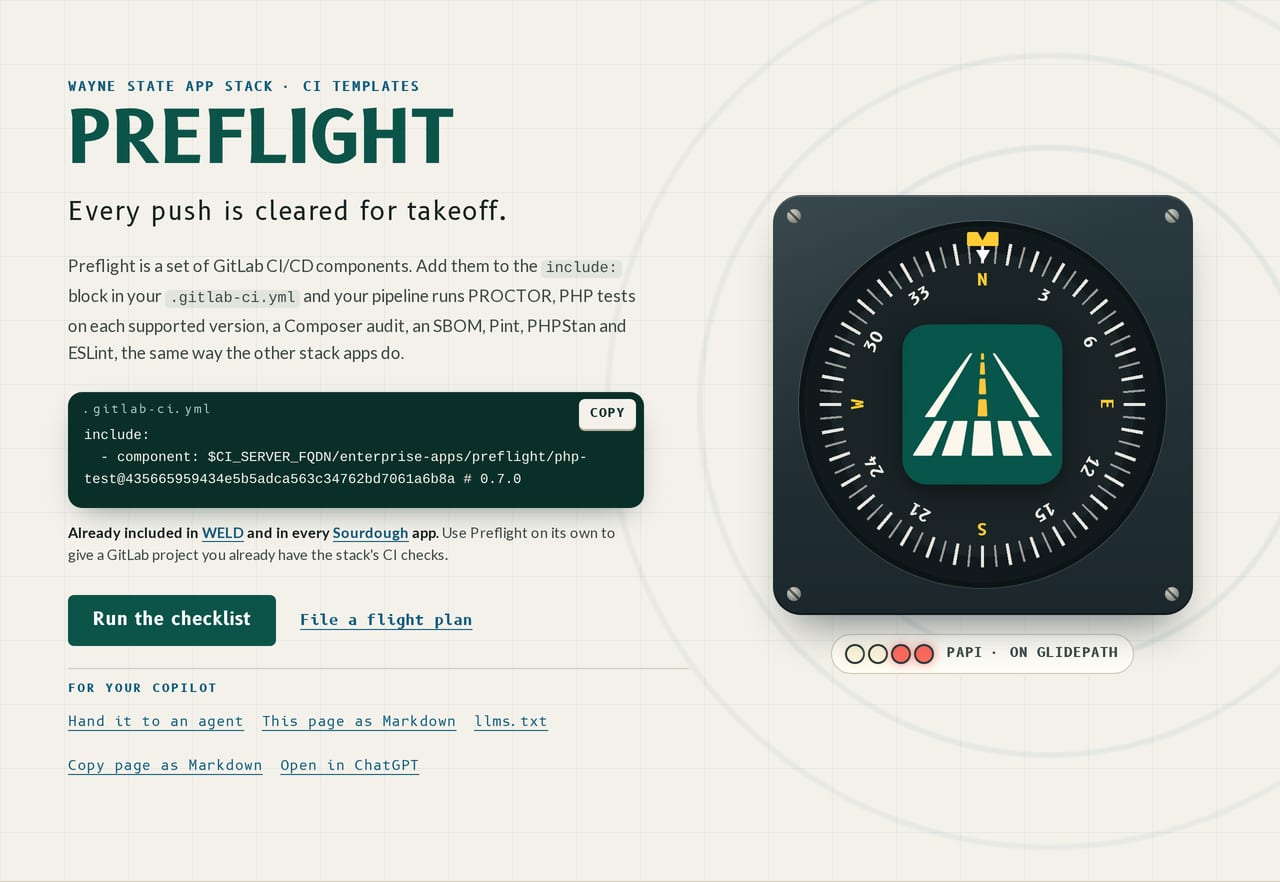
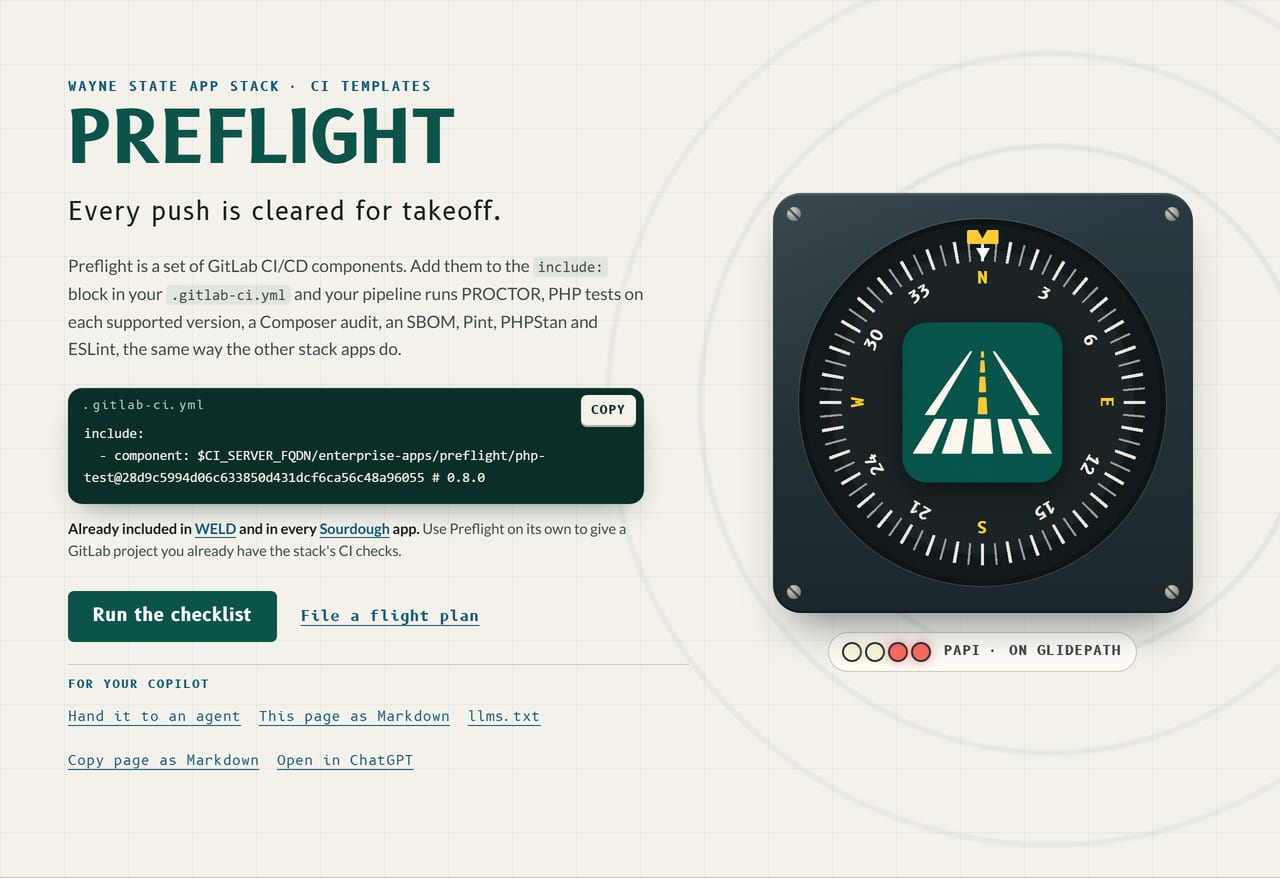
README art flies 0.8.0: the checklist card and the hero
build.mjs's COMPONENT_TAG moves to 0.8.0, so the kit checks every front-page placard says "in 0.8.0" before it draws.
The card's panel line read "15 components, in 0.7.0"; the hero showed the 0.7.0 pin. The cast PNGs re-rendered
byte-for-byte the same size with no input change, so they were left alone.

diff --git a/CHANGELOG.md b/CHANGELOG.md
@@ -7,6 +7,7 @@ are Git tags.
 ## Unreleased
 
 - Changed: Preflight's own pipeline runs `php-test-advisory` on `8.6-rc`, the newest PHP 8.6 release candidate, so `php_advisory_version` is proven in a real pipeline (BEST_PRACTICES 6.4 is `Checked`). Its first look found the 8.6 candidate image built without `mbstring`, which PHPUnit needs: the job fails, allowed, and nothing else changes. The php-test guide says which tags the input takes (`8.6-rc` follows the newest candidate, `8.6.0RC5` stays put).
+- Docs: the README art flies 0.8.0. The checklist card panel says "15 components, in 0.8.0" (it still said 0.7.0) and the hero shows the 0.8.0 pin; the art kit checks every placard against the new tag.
 - Docs: BEST_PRACTICES matches 0.8.0. It counted fourteen components and called 0.5.0 the latest tag; it now lists fifteen with `mysql56-migrate`, counts thirteen tags, has `mysql56-migrate` in 7.1 (eleven components tested at the commit under review) and 7.2 (fourteen of fifteen carry a must-fail fixture), says PROCTOR and CREED fly `proctor@0.8.0`, and marks backlog items 17, 22 and 43 Done.
 - Site: the front page pins 0.8.0. The quick start, every placard, the flight plan and the GitHub workflow pin the 0.8.0 tag commit (they still pinned 0.7.0's), the placards say "in 0.8.0", the components note says what is new in 0.8.0 (`session_header`, and `package-publish` refusing a moved version on GitLab) and keeps 0.7.0 and 0.6.0 as "Since" notes, and the type certificate data sheet is amended to 0.8.0: the change bar moves to `session_header`, the log of amendments gains its 0.8.0 line, and the diff example reads `git diff 0.7.0 0.8.0`.
 
